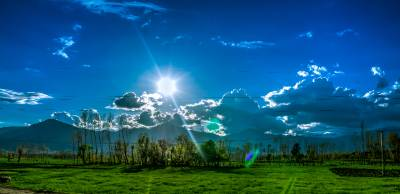
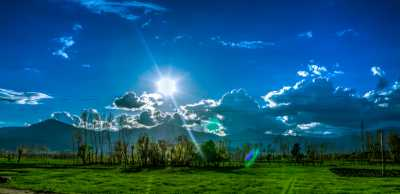
home img responsive

diff --git a/wheater/preston.html b/wheater/preston.html
@@ -47,8 +47,8 @@
         <div class="herodiv">
             <section class="heroimg">
                 <picture>
-                        <source srcset="images/newpreston400.jpg" media="(min-width: 520px) and (max-width: 895px)">
-                            <source srcset="images/newpreston600.jpg" media='(min-width: 896px)'>
+                        <source srcset="images/newpreston600.jpg" media="(min-width: 520px) and (max-width: 895px)">
+                            <source srcset="images/newpreston1000.jpg" media='(min-width: 896px)'>
                     <img src="images/newpreston250.jpg" alt="Aravova Preston View">
                 </picture>
             </section>

diff --git a/wheater/CSS/smallPreston.css b/wheater/CSS/smallPreston.css
@@ -151,6 +151,10 @@ footer{
     margin: 0px auto;
     justify-content: center;
 }
+
+.heroimg img{
+    max-width: -webkit-fill-available;
+}
 .townimg{
     max-width: -webkit-fill-available;
 }
@@ -158,6 +162,7 @@ footer{
 .weathersummary{
     margin-top: -1.5em;
     background-color: #F2F1B1;
+    ;
     padding-bottom: 10px;
 }
 

diff --git a/wheater/CSS/mediumPreston.css b/wheater/CSS/mediumPreston.css
@@ -42,7 +42,7 @@
 
 	.heroimg{
 		margin: auto;
-		max-width: 1000px;
+		max-width: 600px;
 		width: 100%;
 		height: 100%;
 	}

diff --git a/wheater/CSS/largePreton.css b/wheater/CSS/largePreton.css
@@ -21,4 +21,7 @@
     .townimg{
         max-width: 1000px;
     }
+    .heroimg{
+        max-width: 1000px;
+    }
   }
